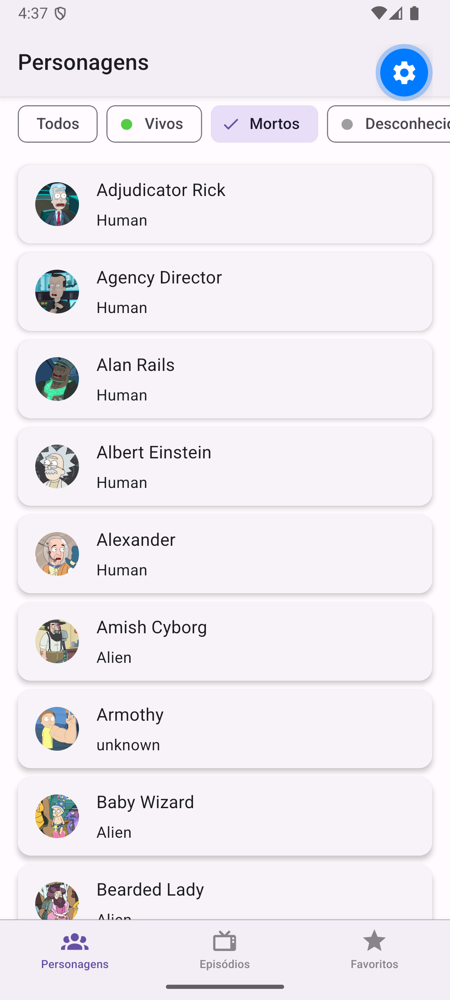
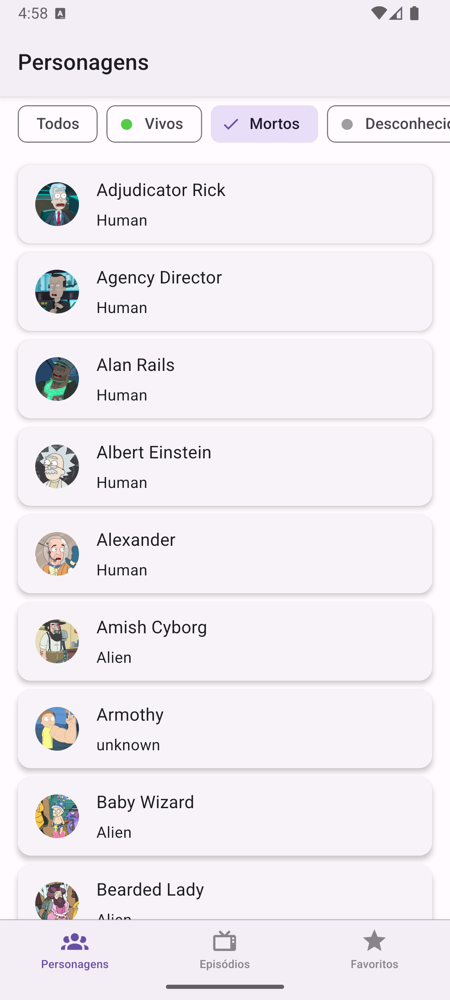
docs: CI e APK marcados no plano; screenshots do APK do CI
Os screenshots agora são do APK gerado pelo CI (sem o botão do Expo Go).

Changed region(s): [[0.84, 0.031, 0.9644, 0.124], [0.0622, 0.0, 0.1556, 0.031]]

diff --git a/docs/plano-de-trabalho.md b/docs/plano-de-trabalho.md
@@ -126,8 +126,8 @@ lógica, ≥ 1 screenshot da sua feature para o README, e saber explicar sua par
 
 **CI e testes (para o grupo inteiro)**
 - [x] Configurar Jest (`jest-expo`) + `@testing-library/react-native` (v14: `render`/`fireEvent` são `await`)
-- [ ] GitHub Actions em todo PR: `npm ci` → `tsc --noEmit` → `npm test` → `expo prebuild` → `assembleRelease` — escrito em `.github/workflows/ci.yml`, falta a 1ª execução verde
-- [ ] Gerar o APK como artefato do CI (vira o plano B da demo) — release assinado com a chave de debug, porque o APK debug só abre com o Metro rodando
+- [x] GitHub Actions em todo PR: `npm ci` → `tsc --noEmit` → `npm test` → `expo prebuild` → `assembleRelease` (`.github/workflows/ci.yml`, verde no PR #6)
+- [x] Gerar o APK como artefato do CI (vira o plano B da demo) — artefato `rickandmorty-apk` na aba Actions; é release assinado com a chave de debug, porque o APK debug só abre com o Metro rodando
 - [x] Conferir no fim que existem **≥ 3 casos** de teste passando (meta: 7+, um por pessoa) — 25 hoje
 
 ### 4 · Hugo Piani — F3 Busca + estados vazio/erro/offline
